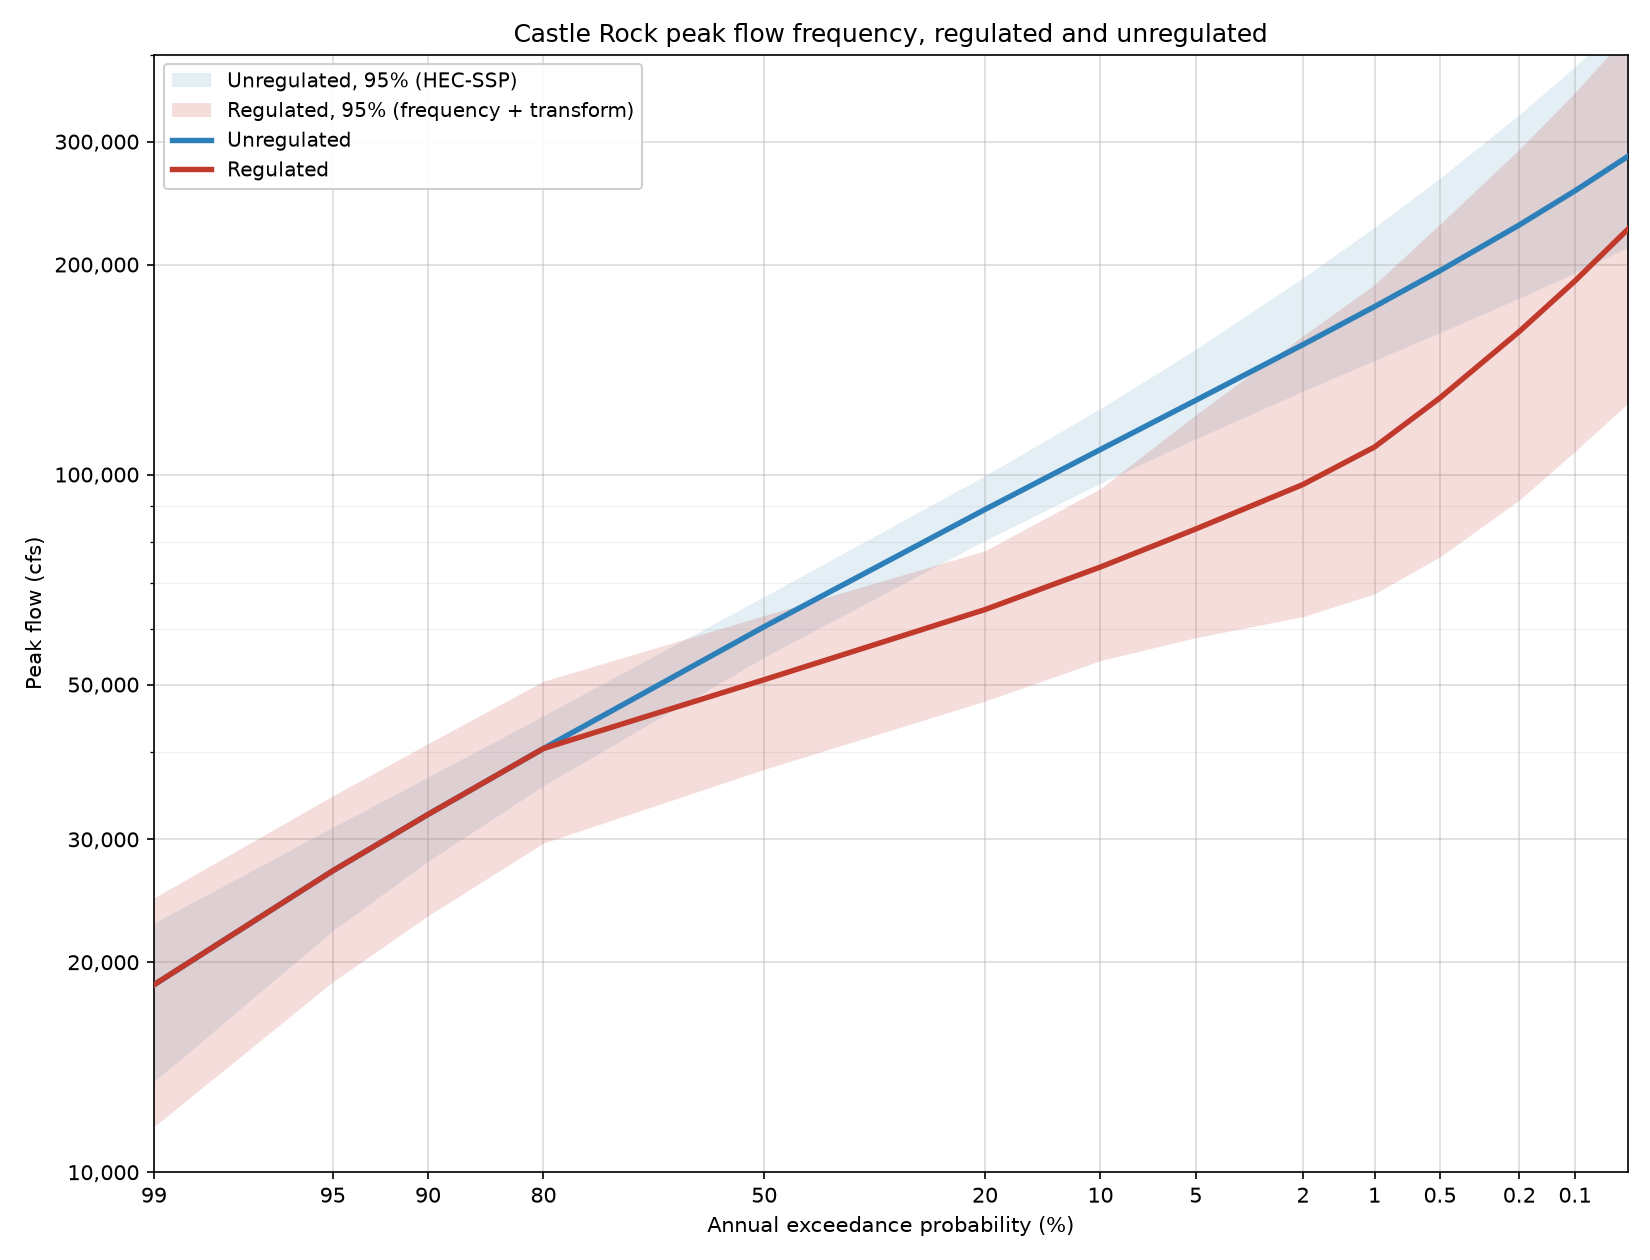
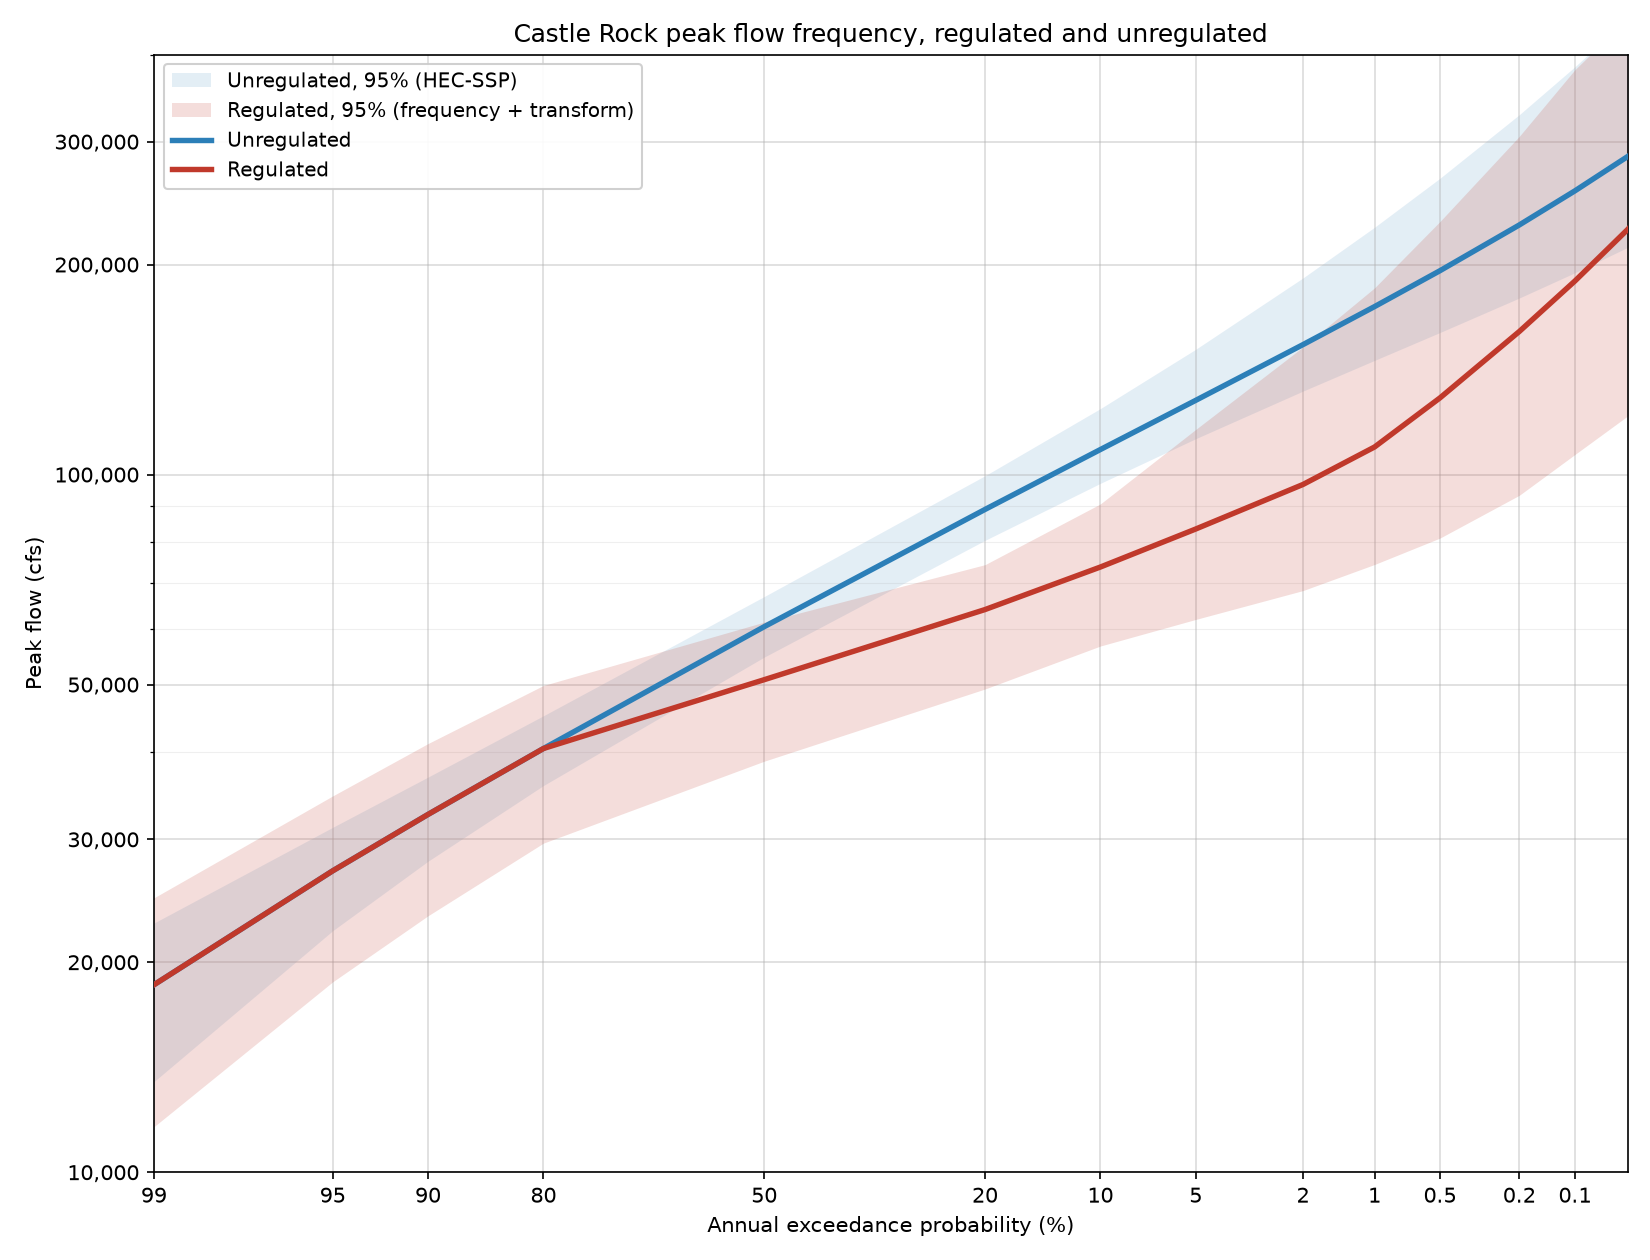
Unreg_Reg_Curve: adopt transform_curve as FREQ_TERM_MODE
Switches the adopted regulated uncertainty band from "literal" (the
reviewer's formula read literally -- an unregulated-cfs delta added
directly to a regulated-cfs transform term) to "transform_curve" (the same
delta pushed through the fitted transform first, so both terms are in
regulated cfs before combining).

Reason: "literal" implicitly assumes the transform's local slope is 1
(pure pass-through) wherever it skips the unit conversion. That is false
through most of this curve -- Mossyrock cuts peak flow 30-37% across most
of its range -- yet the two modes tracked each other within a few percent
through the middle of the curve anyway. That agreement is a property of
this transform's particular shape (its attenuation ratio and log-log slope
partially offsetting on the literal side's raw-cfs comparison), not a
general guarantee; a different basin or a re-fit transform without that
same offset would have no reason to show the same near-agreement.
transform_curve is correct by construction instead of by coincidence, and
costs nothing extra since the fitted curve is already on hand.

Effects of the switch:
- regulated_frequency_inferred.csv: reg_lower/upper_95pct_cfs now the
  transform_curve band; reg_lower/upper_95pct_alt_cfs now literal (swapped
  from the previous commit).
- unreg_reg_final_uncertainty.png (adopted figure) and
  unreg_reg_final_curves.png (2009-comparison figure, which now shares the
[…]

diff --git a/CAS_Reg_Unreg/src/#Unreg_Reg_Curve.py b/CAS_Reg_Unreg/src/#Unreg_Reg_Curve.py
@@ -379,18 +379,28 @@ TRANSFORM_SIGMA_SPAN = 0.50
 # formula is written as (Unreg_bound - Unreg_best) -- a delta in UNREGULATED
 # cfs -- added directly to a REGULATED-cfs transform term. That mixes units
 # (a regulated flow cannot literally gain "unregulated cfs of uncertainty"),
-# but the discrepancy is small in practice and matching the reviewer's own
-# worked formula, term for term, matters more here than the purism.
+# and while the two modes track each other reasonably closely over most of
+# THIS curve, that is a property of this transform's particular shape (its
+# attenuation ratio and log-log slope partly offsetting), not something
+# guaranteed for a different basin or a re-fit transform -- see
+# freq_term_mode_comparison.txt. "literal" implicitly assumes the transform's
+# local slope is 1 (pure pass-through) wherever it skips the conversion,
+# which is false through most of this curve (30-37% attenuation). Switched
+# to "transform_curve" for that reason -- it is correct by construction
+# rather than by coincidence, and costs nothing (the fitted curve is already
+# on hand).
 #   "literal"         reviewer's formula exactly: freq term = Unreg_bound -
-#                      Unreg_best, in raw unregulated cfs. DEFAULT -- this is
-#                      what gets reported and plotted.
+#                      Unreg_best, in raw unregulated cfs. Kept only for
+#                      comparison (freq_term_mode_comparison.txt/plots) and
+#                      as the literal reading of the reviewer's request.
 #   "transform_curve"  push the unregulated bound through the fitted transform
 #                      curve first (apply_transform), so the freq term is
 #                      already in regulated cfs before combining. Dimensionally
-#                      consistent, computed alongside "literal" every run and
-#                      written to the CSV/report for comparison, but not used
-#                      for the adopted band unless this is switched.
-FREQ_TERM_MODE = "literal"
+#                      consistent -- ADOPTED. Both modes are always computed
+#                      and written to the CSV/report; this only picks which
+#                      one is the adopted band vs. the "_alt" comparison
+#                      columns.
+FREQ_TERM_MODE = "transform_curve"
 # Keep the two sides of the frequency interval separate so the noncentral-t
 # asymmetry survives the combination. False averages them into one sigma.
 COMBINE_ASYMMETRIC = True
@@ -1563,11 +1573,12 @@ def plot_freq_term_mode_comparison(freq, fit, reg_curve, unc, stem):
 
 
 def write_freq_term_mode_description(freq, unc, reg_curve, out_path):
-    """Methodology writeup for the FREQ_TERM_MODE choice, as a plain text
-    file -- not the memo. The memo's Section 5.6 states whichever mode is
-    adopted; this lays out both so that choice can be made and the memo text
-    written or revised deliberately, instead of by whatever FREQ_TERM_MODE
-    happens to be set to in this script.
+    """Short, memo-ready methodology text -- meant to be paraphrased into
+    Section 5.6, not read as an internal justification document. The longer
+    reasoning (why "literal" was rejected, the full per-AEP comparison) is
+    kept here too, but after the part meant for the memo, and trimmed to
+    what an audit trail needs rather than the full argument that produced
+    the decision.
     """
     pct = int(round(100 * UNCERTAINTY_CONF_LEVEL))
     z = unc["z"]
@@ -1579,81 +1590,69 @@ def write_freq_term_mode_description(freq, unc, reg_curve, out_path):
     def w(s=""):
         lines.append(s)
 
-    w("REGULATED UNCERTAINTY: TWO WAYS TO COMBINE THE FREQUENCY TERM")
+    w("REGULATED FLOW UNCERTAINTY -- METHODOLOGY")
     w("=" * 64)
-    w("Generated by #Unreg_Reg_Curve.py -- reflects whatever the analysis")
-    w("currently produces, not a fixed record. Re-run the script to refresh.")
+    w("Generated by #Unreg_Reg_Curve.py. Re-run the script to refresh these")
+    w("numbers if the analysis changes.")
     w("")
-    w("BACKGROUND")
+    w("FOR THE MEMO (Section 5.6)")
     w("-" * 64)
     w("The regulated flow at a given AEP carries uncertainty from two")
-    w("independent sources: the unregulated frequency estimate itself (HEC-SSP")
-    w("confidence limits), and the scatter of the unregulated-to-regulated")
-    w("transform about its fitted line. EM 1110-2-1619 (29 Sep 2025) Sec.")
-    w("4-4.b(3), Eq. 4-6, combines independent standard deviations by")
-    w("root-sum-of-squares; Sec. 4-6a treats each side of the best estimate as")
-    w("its own Normal distribution, which is how the asymmetry in both the SSP")
-    w("limits and the transform residuals survives the combination instead of")
-    w("being averaged into one symmetric spread.")
+    w("independent sources: how well the unregulated frequency curve is")
+    w("known (HEC-SSP confidence limits), and how much storm shape affects")
+    w("attenuation (scatter of the regulated points about the fitted")
+    w("transform). Per EM 1110-2-1619 (29 Sep 2025) Sec. 4-4.b(3), Eq. 4-6,")
+    w("independent standard deviations combine by root-sum-of-squares, with")
+    w("the upper and lower side of each source kept separate (Sec. 4-6a) so")
+    w("the real asymmetry in both sources survives the combination.")
     w("")
-    w("The reviewer's formula for the combination itself:")
+    w("Before combining, the frequency term is converted into regulated-cfs")
+    w("units by evaluating the fitted unregulated-to-regulated transform at")
+    w("the unregulated confidence bound -- the same curve used for the best")
+    w("estimate -- rather than treated as an unregulated-cfs quantity added")
+    w("directly to the regulated-cfs transform term. This keeps both terms")
+    w("in the same units before they are combined:")
     w("")
-    w("  Upper = RegBest + sqrt((Unreg97.5 - UnregBest)^2 + (Transform97.5 - TransformBest)^2)")
-    w("  Lower = RegBest - sqrt((UnregBest - Unreg2.5)^2 + (TransformBest - Transform2.5)^2)")
+    w("  freq_term_hi = Transform(Unreg_97.5) - Transform(Unreg_best)")
+    w("  freq_term_lo = Transform(Unreg_best) - Transform(Unreg_2.5)")
+    w("  transform_term_hi/lo = the fitted curve's own confidence spread,")
+    w("                         evaluated at Unreg_best")
     w("")
-    w("at the %d%% two-sided level (z = %.3f). The transform term is" % (pct, z))
-    w("unambiguous: the LOESS fit's own confidence spread, evaluated at the")
-    w("unregulated best estimate, already in regulated cfs. The frequency term")
-    w("is where the two approaches below diverge.")
+    w("  Upper = RegBest + sqrt(freq_term_hi^2 + transform_term_hi^2)")
+    w("  Lower = RegBest - sqrt(freq_term_lo^2 + transform_term_lo^2)")
     w("")
-    w("THE TWO APPROACHES")
+    w("at the %d%% two-sided level (z = %.3f)." % (pct, z))
+    w("")
+    w("WHY NOT THE REVIEWER'S FORMULA READ LITERALLY")
     w("-" * 64)
-    w("literal  (FREQ_TERM_MODE = \"literal\")")
-    w("    freq_term = Unreg_bound - Unreg_best, taken directly in")
-    w("    UNREGULATED cfs and combined as-is against the transform term.")
-    w("    This is the reviewer's formula exactly, read literally: the")
-    w("    formula as given subtracts unregulated flows and adds the result")
-    w("    to a regulated-cfs quantity. It does not push the unregulated")
-    w("    bound through the transform first.")
+    w("Read literally, the reviewer's formula subtracts unregulated flows")
+    w("directly (Unreg_97.5 - Unreg_best) and adds that raw cfs value to the")
+    w("regulated-cfs transform term -- implicitly treating a 1-cfs change in")
+    w("unregulated flow as a 1-cfs change in regulated flow. That assumption")
+    w("is false through most of this curve, which reduces peak flow 30-37")
+    w("percent. It happens to land within a few percent of the curve-based")
+    w("result over much of this particular transform's range (Appendix:")
+    w("comparison table below), but that agreement is a property of this")
+    w("transform's shape, not something a different basin or a re-fit")
+    w("transform would be guaranteed to reproduce. Evaluating the actual")
+    w("fitted curve removes the assumption instead of relying on it holding")
+    w("by coincidence.")
     w("")
-    w("transform_curve  (FREQ_TERM_MODE = \"transform_curve\")")
-    w("    freq_term = Transform(Unreg_bound) - Transform(Unreg_best), i.e.")
-    w("    the unregulated bound is pushed through the SAME fitted transform")
-    w("    curve as the central estimate before differencing, so the result")
-    w("    is already in REGULATED cfs -- the same units as the transform")
-    w("    term it is then combined with.")
-    w("")
-    w("WHY THEY DIFFER")
-    w("-" * 64)
-    w("\"literal\" adds an unregulated-cfs delta to a regulated-cfs quantity")
-    w("without converting units first. That is only an approximation of the")
-    w("true regulated-cfs delta -- the exact conversion is Transform(Unreg +")
-    w("delta) - Transform(Unreg), which is what \"transform_curve\" computes,")
-    w("and the two are equal only where the transform is locally linear.")
-    w("")
-    w("The transform is NOT linear -- its local slope (d log(reg) / d log(unreg))")
-    w("runs about 0.6 through the middle of the curve, where the projects")
-    w("absorb most of an increase, and rises toward 1.5 near the top, where")
-    w("the curve bends toward 1:1 pass-through. Where the slope is below 1,")
-    w("\"literal\" OVERSTATES the frequency term relative to \"transform_curve\"")
-    w("(an unregulated-cfs delta is larger than the regulated-cfs delta the")
-    w("project would actually produce from it); where the slope approaches or")
-    w("exceeds 1, near pass-through, the two converge and can cross.")
-    w("")
-    w("Neither is \"more correct\" about the AEP or the best-estimate curve --")
-    w("both use the same reg_curve and the same transform term. They differ")
-    w("only in how the frequency term is expressed before combining, i.e. how")
-    w("literally the reviewer's formula is followed versus how dimensionally")
-    w("consistent the combination is.")
+    w("=" * 64)
+    w("AUDIT TRAIL -- not for the memo")
+    w("=" * 64)
     w("")
     w("QUANTITATIVE COMPARISON")
     w("-" * 64)
-    hdr = ("%6s  %12s  %12s  %22s  %22s  %9s" %
-          ("AEP", "Unreg cfs", "Reg cfs", "literal lo - hi", "transform_curve lo - hi",
-           "% diff (hi)"))
+    w("Adopted band (transform_curve) against the rejected literal reading,")
+    w("at the ordinates the memo tabulates in Table 5-2:")
+    w("")
+    hdr = ("%8s  %12s  %12s  %22s  %22s  %9s" %
+          ("AEP", "Unreg cfs", "Reg cfs", "transform_curve lo - hi",
+           "literal lo - hi", "% diff"))
     w(hdr)
     w("-" * len(hdr))
-    show_aep = [0.5, 0.2, 0.1, 0.05, 0.02, 0.01, 0.005, 0.002, 0.001, 0.0005, 0.0002, 0.0001]
+    show_aep = [0.500, 0.100, 0.020, 0.010, 0.005, 0.002, 0.001, 0.0001]
     for a in show_aep:
         i = int(np.argmin(np.abs(aep - a)))
         u = freq[FREQ_VALUE_COL].values[i]
@@ -1661,27 +1660,25 @@ def write_freq_term_mode_description(freq, unc, reg_curve, out_path):
         ll, lh = literal_lo[i], literal_hi[i]
         cl, ch = curve_lo[i], curve_hi[i]
         pdiff = 100.0 * (lh - ch) / ch if ch else float("nan")
-        w("%6.4f  %12s  %12s  %22s  %22s  %+8.1f%%" % (
+        w("%8.4f  %12s  %12s  %22s  %22s  %+8.1f%%" % (
             a, format(int(round(u)), ","), format(int(round(r)), ","),
-            "%s - %s" % (format(int(round(ll)), ","), format(int(round(lh)), ",")),
             "%s - %s" % (format(int(round(cl)), ","), format(int(round(ch)), ",")),
+            "%s - %s" % (format(int(round(ll)), ","), format(int(round(lh)), ",")),
             pdiff))
     w("")
-    w("Positive % diff (hi) means the literal upper bound is WIDER than the")
-    w("transform_curve upper bound at that AEP; negative means narrower.")
+    w("% diff = how much wider (positive) or narrower (negative) the")
+    w("rejected literal upper bound is than the adopted transform_curve")
+    w("upper bound, at that AEP.")
     w("")
     w("FIGURES")
     w("-" * 64)
     w("  unreg_reg_freqmode_literal.png          literal band alone")
     w("  unreg_reg_freqmode_transform_curve.png  transform_curve band alone")
+    w("                                          (= the adopted band)")
     w("  unreg_reg_freqmode_compare.png          both bands on one axis")
     w("")
-    w("This file and the three figures are diagnostic output, not the memo.")
-    w("The memo's Section 5.6 currently states FREQ_TERM_MODE = %r; changing"
+    w("FREQ_TERM_MODE is currently %r (near the top of #Unreg_Reg_Curve.py)."
       % unc["freq_term_mode"])
-    w("the adopted mode is a one-line change (FREQ_TERM_MODE, near the top of")
-    w("#Unreg_Reg_Curve.py) followed by re-running the script and updating the")
-    w("memo text and Appendix E table to match.")
 
     with open(out_path, "w") as f:
         f.write("\n".join(lines) + "\n")
